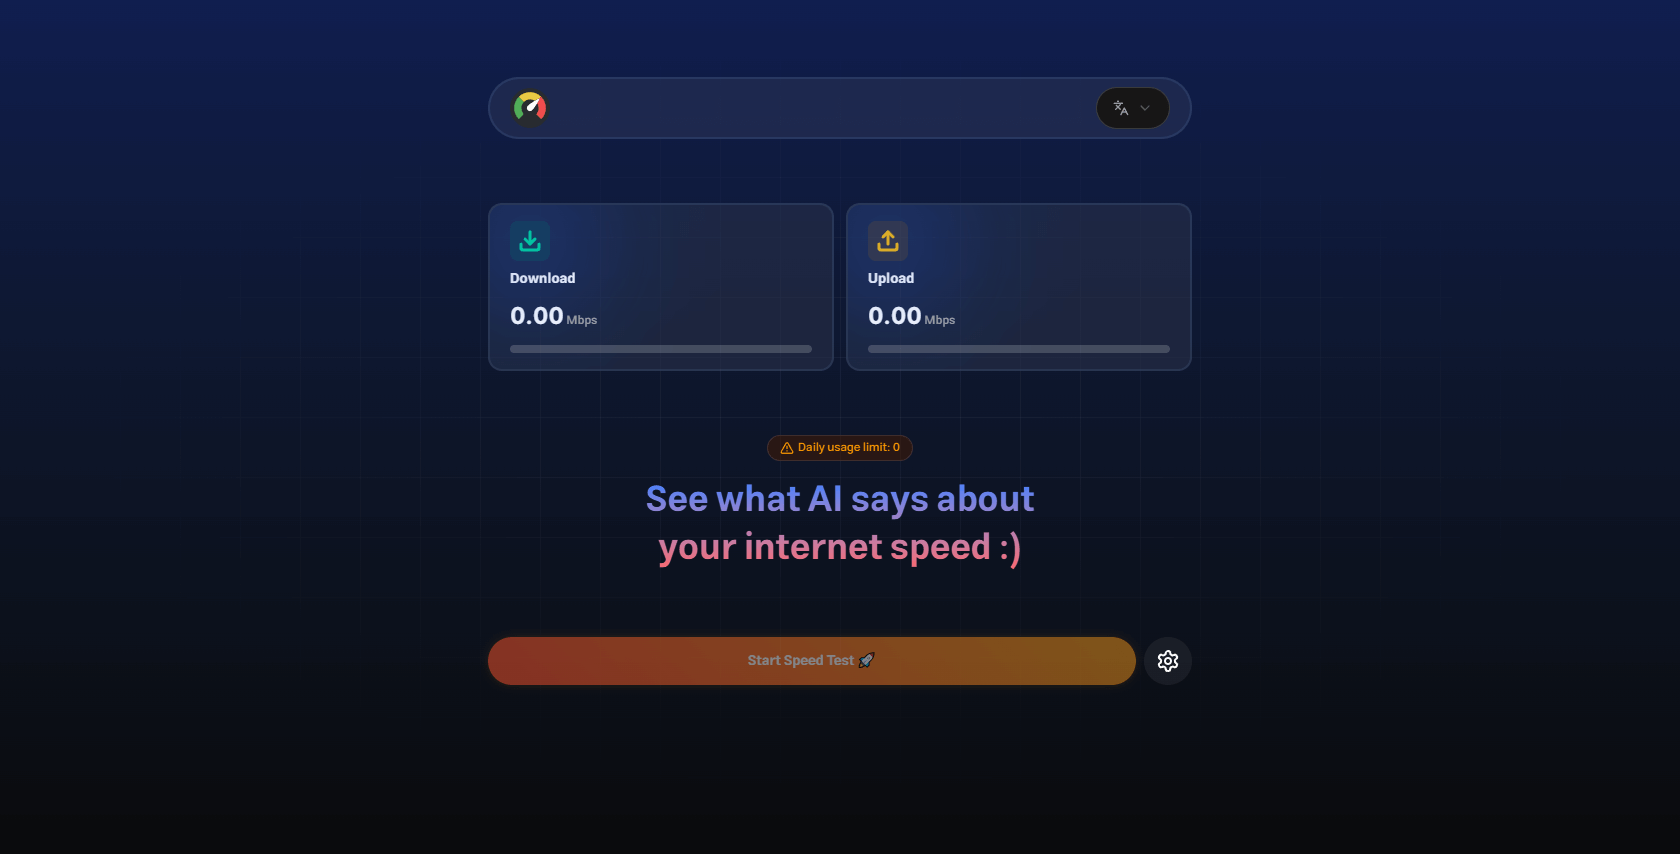
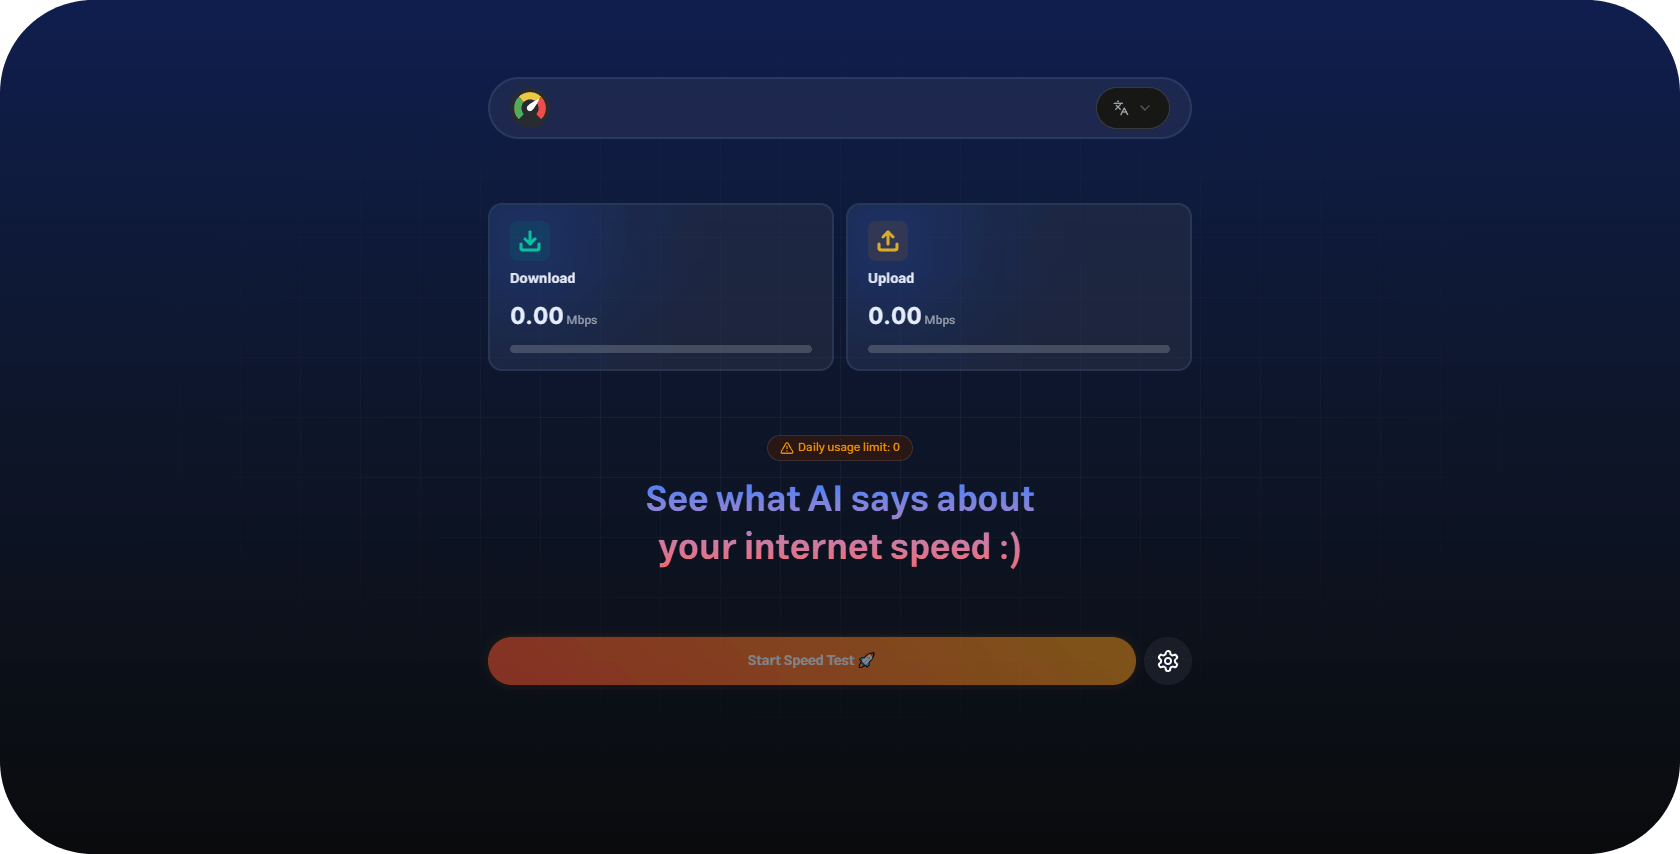
feat: update README layout and add preview image

diff --git a/readme.md b/readme.md
@@ -1,8 +1,16 @@
-# <img src="public/logo.svg" alt="RoastNet Logo" height="32" style="vertical-align:middle;"/> RoastNet
+<table border="0">
+  <tr>
+    <td><img src="public/logo.svg" alt="RoastNet Logo" height="50" style="verti"/></td>
+    <td style="font-size:2rem;"><strong>Roast Net</strong></td>
+  </tr>
+</table>
 
 A fun, modern web app to test your internet speed and get a humorous, culturally-aware roast of your results!
 
 ---
+
+
+
 
 ## 📸 Screenshots
 <img src="public/preview.png" style="border-radius: 1rem;"/>
@@ -20,12 +28,12 @@ RoastNet lets users:
 
 | Tech            | Description                        |
 |-----------------|------------------------------------|
-| <img src="https://cdn.jsdelivr.net/gh/simple-icons/simple-icons/icons/vite.svg" height="24" style="vertical-align:middle;"/> Vite | Lightning-fast build tool           |
-| <img src="https://cdn.jsdelivr.net/gh/simple-icons/simple-icons/icons/react.svg" height="24" style="vertical-align:middle;"/> React | UI library                          |
-| <img src="https://cdn.jsdelivr.net/gh/simple-icons/simple-icons/icons/simpleicons.svg" height="24" style="vertical-align:middle;"/> Zustand | State management                    |
-| <img src="https://cdn.jsdelivr.net/gh/simple-icons/simple-icons/icons/i18next.svg" height="24" style="vertical-align:middle;"/> i18next | Internationalization                |
-| <img src="https://cdn.jsdelivr.net/gh/simple-icons/simple-icons/icons/internetarchive.svg" height="24" style="vertical-align:middle;"/> ndt7 | Internet speed test engine          |
-| <img src="https://cdn.jsdelivr.net/gh/simple-icons/simple-icons/icons/openai.svg" height="24" style="vertical-align:middle;"/> ChatGPT | AI roast generation                |
+|  Vite | Lightning-fast build tool           |
+|  React | UI library                          |
+|  Zustand | State management                    |
+|  i18next | Internationalization                |
+|  ndt7 | Internet speed test engine          |
+|  OpenRouter | AI roast generation                |
 
 ---
 
